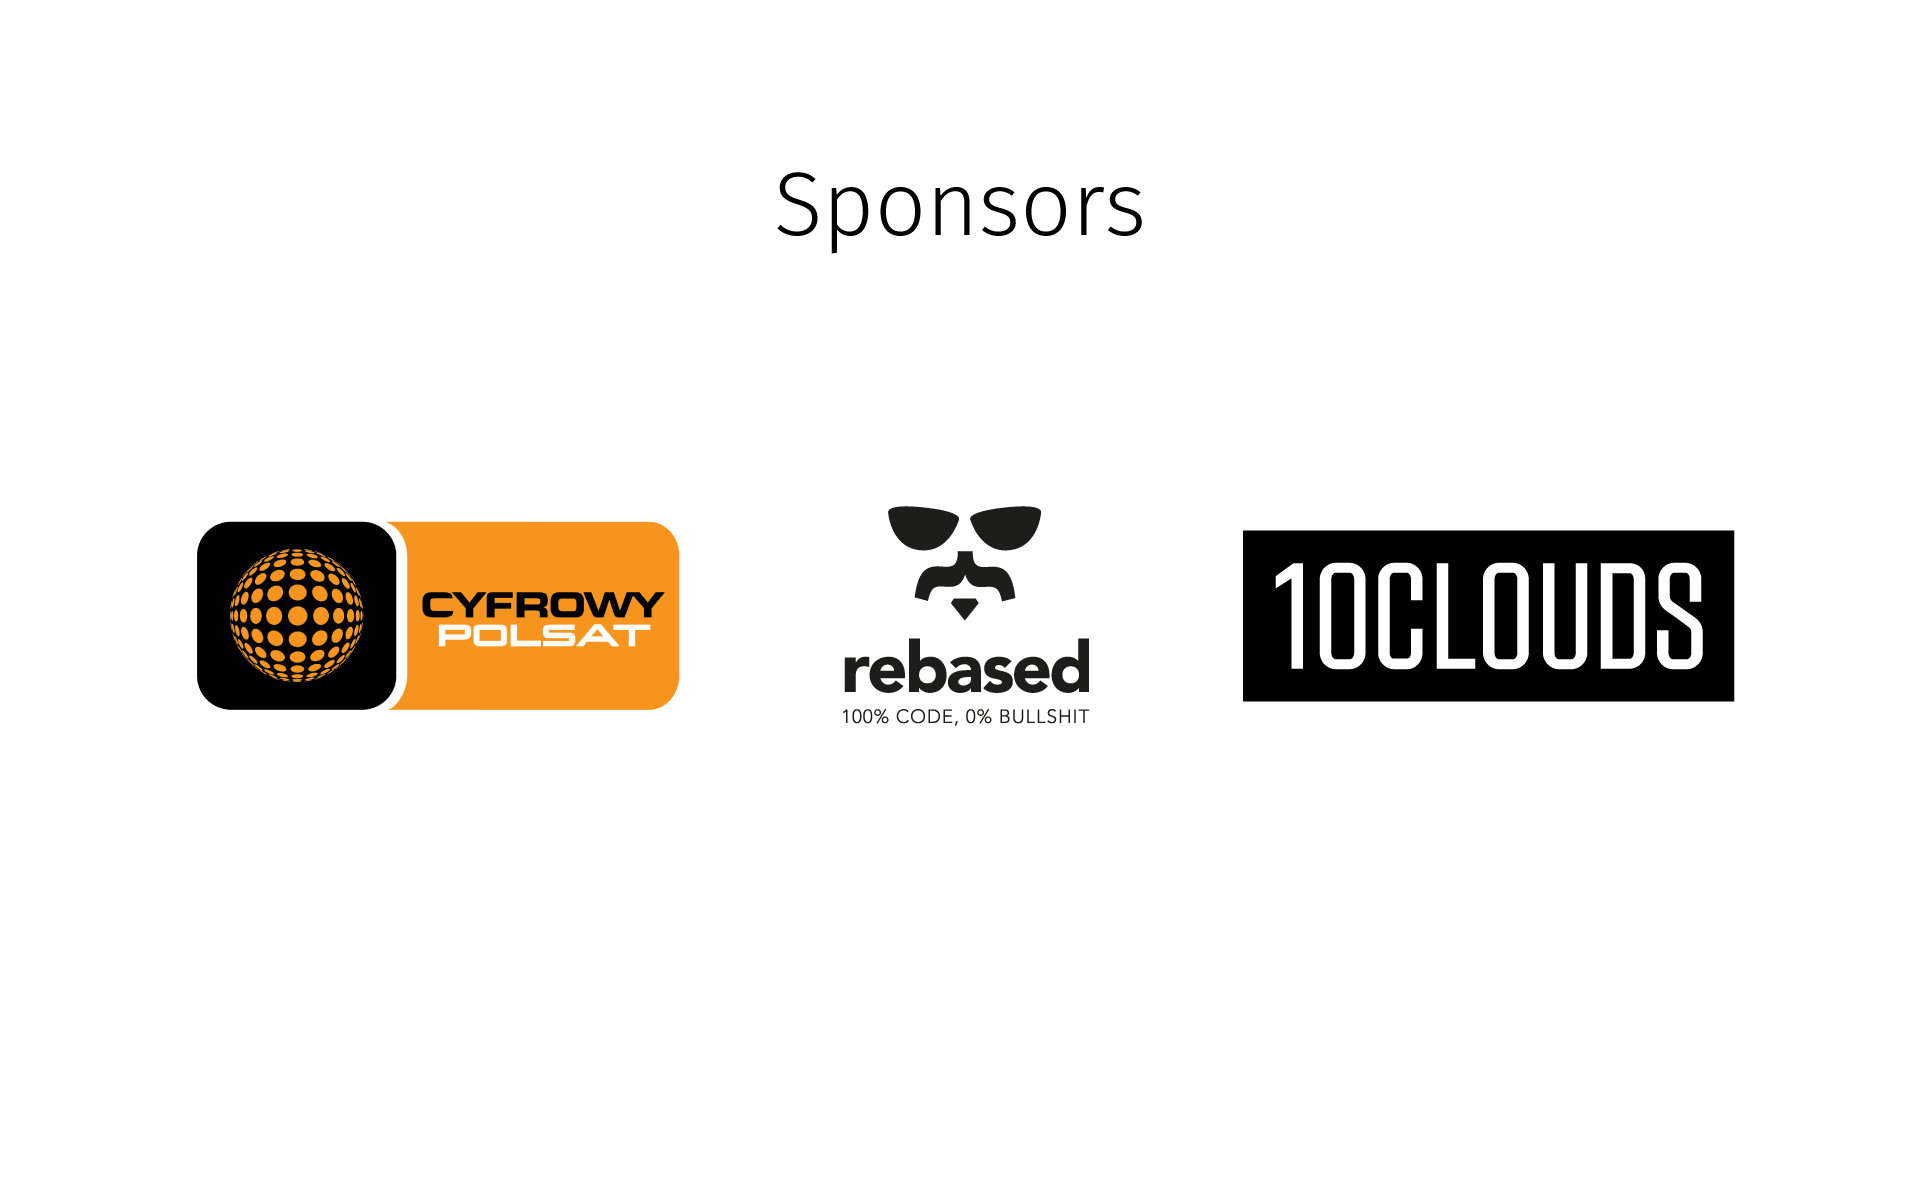
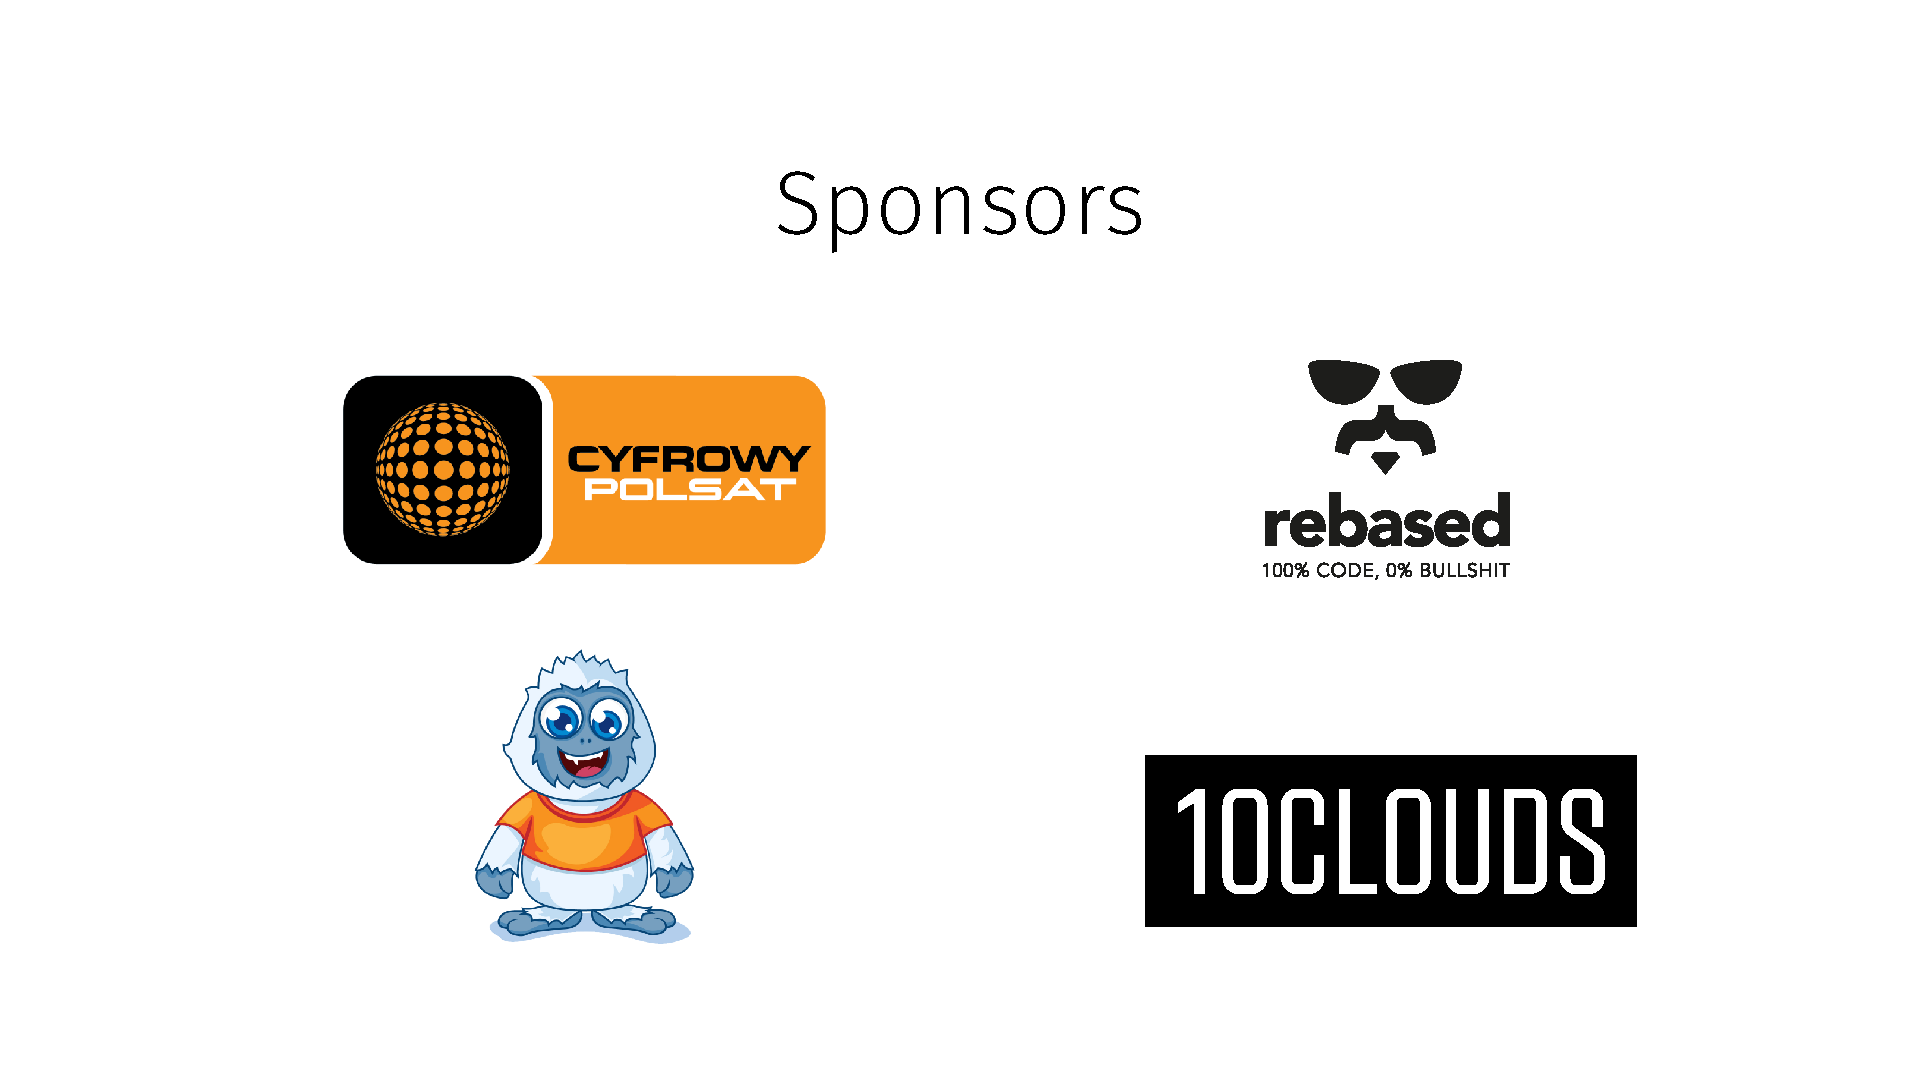
Remove agenda. Update sponsors.

diff --git a/index.html b/index.html
@@ -24,12 +24,6 @@
 
     <section class="slide cover">
         <div>
-            <img src="themes/warsawjs/pictures/agenda.png">
-        </div>
-    </section>
-
-    <section class="slide cover">
-        <div>
             <img src="themes/warsawjs/pictures/sponsors.png">
         </div>
     </section>
